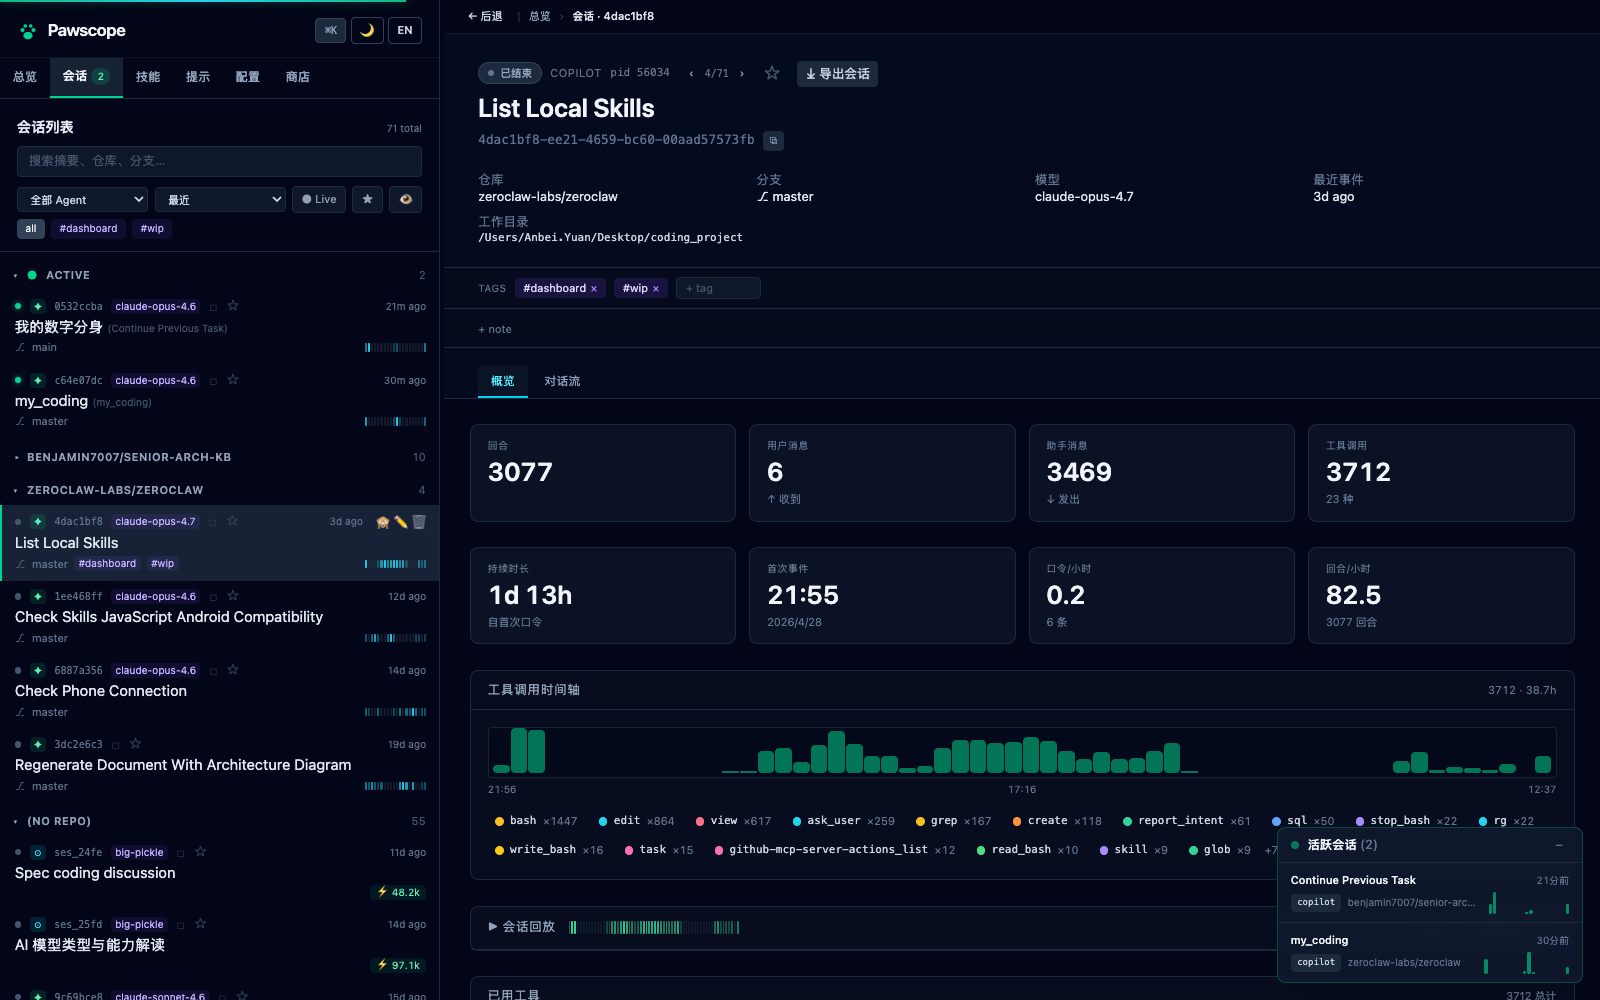
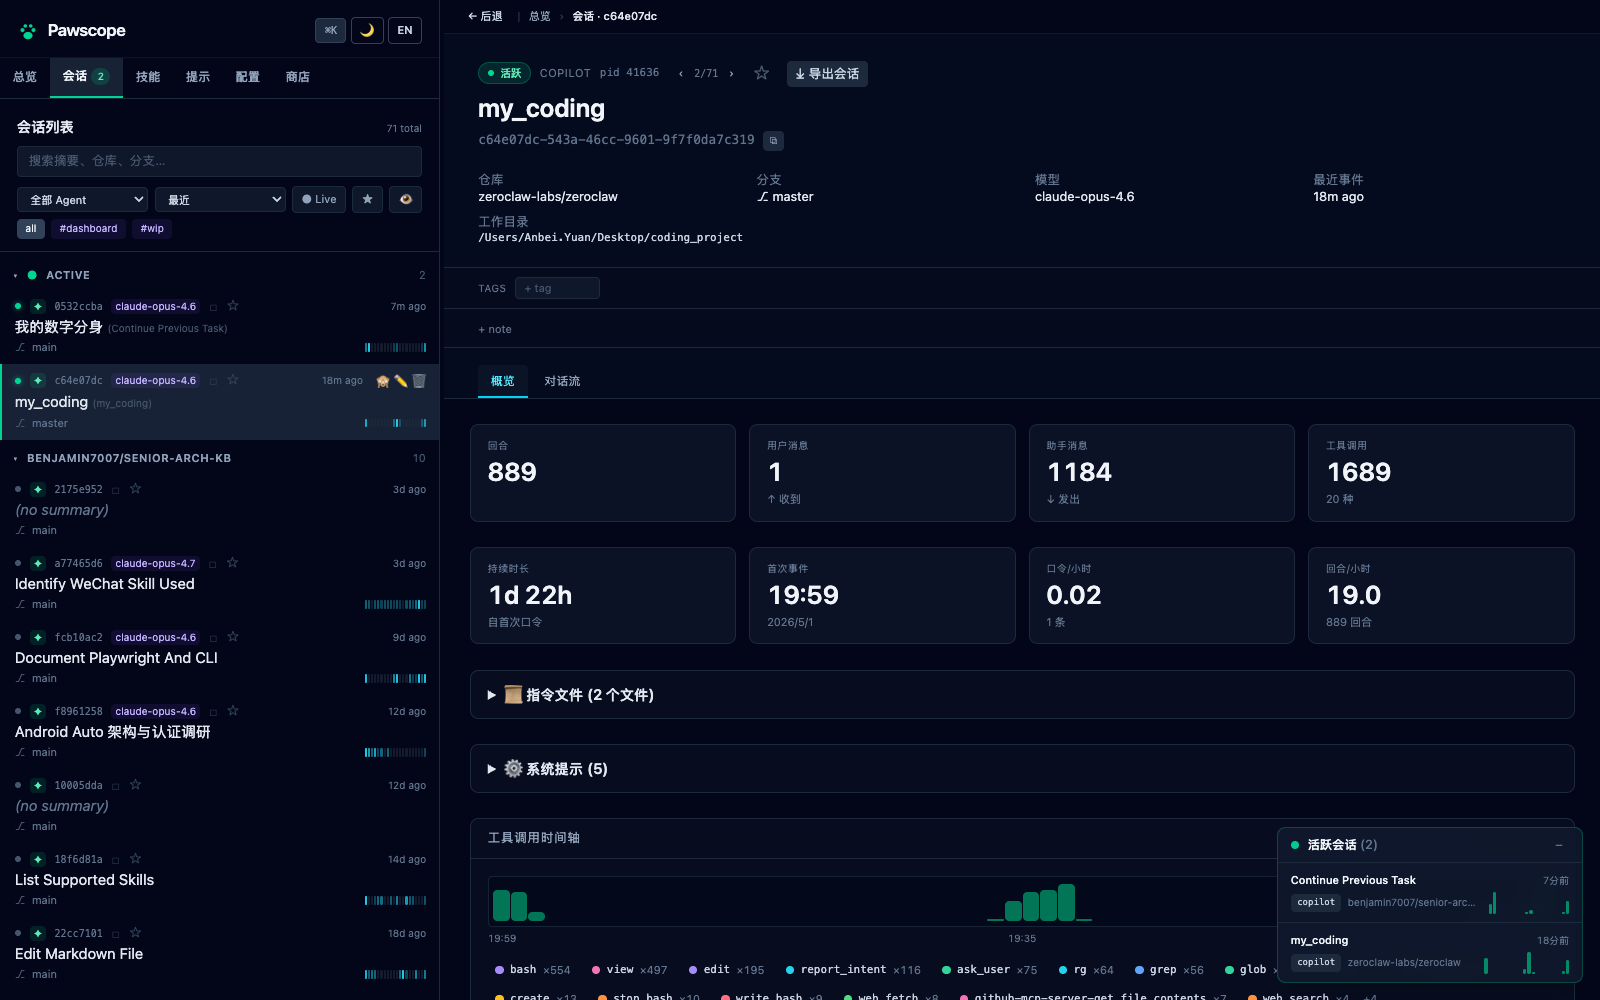
docs: refresh screenshots and add Instructions page to tour
- All 7 existing screenshots refreshed with latest UI
- New 08-instructions.png showing project-level instructions
- Updated README tour captions (EN + ZH)

diff --git a/README.md b/README.md
@@ -112,7 +112,7 @@ Hide, delete (move to trash), rename, star, tag sessions. Compare 2–5 sessions
 <td width="50%"><a href="./docs/screenshots/03-flow.png"><img src="./docs/screenshots/03-flow.png" alt="Conversation flow"/></a></td>
 </tr>
 <tr>
-<td align="center"><sub><b>Session detail</b> — turns, messages, tool histogram, token budget</sub></td>
+<td align="center"><sub><b>Session detail</b> — turns, messages, tool histogram, instructions & system prompts</sub></td>
 <td align="center"><sub><b>Conversation flow</b> — full prompt / response / tool-call timeline</sub></td>
 </tr>
 <tr>
@@ -128,8 +128,14 @@ Hide, delete (move to trash), rename, star, tag sessions. Compare 2–5 sessions
 <td width="50%"><a href="./docs/screenshots/07-store.png"><img src="./docs/screenshots/07-store.png" alt="Skill Store"/></a></td>
 </tr>
 <tr>
-<td align="center"><sub><b>Config</b> — persona, agents, installed skills, 30-day token trend</sub></td>
+<td align="center"><sub><b>Config</b> — 6-agent cards, settings, global instructions, session stats</sub></td>
 <td align="center"><sub><b>Skill Store</b> — 328+ community skills, 13 categories, project/global install</sub></td>
+</tr>
+<tr>
+<td width="50%" colspan="2" align="center"><a href="./docs/screenshots/08-instructions.png"><img src="./docs/screenshots/08-instructions.png" alt="Session instructions" width="50%"/></a></td>
+</tr>
+<tr>
+<td align="center" colspan="2"><sub><b>Instructions</b> — project-level instruction files & system prompts per session</sub></td>
 </tr>
 </table>
 
